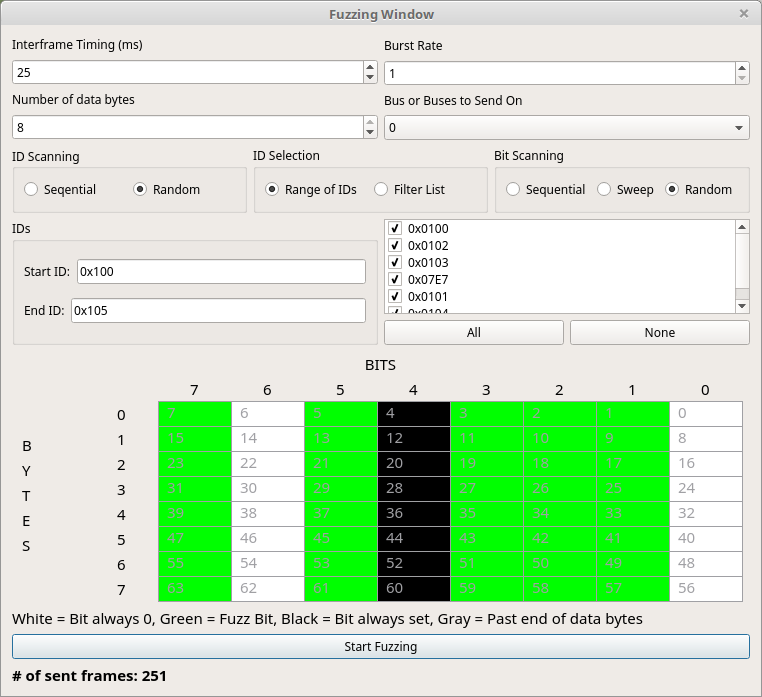
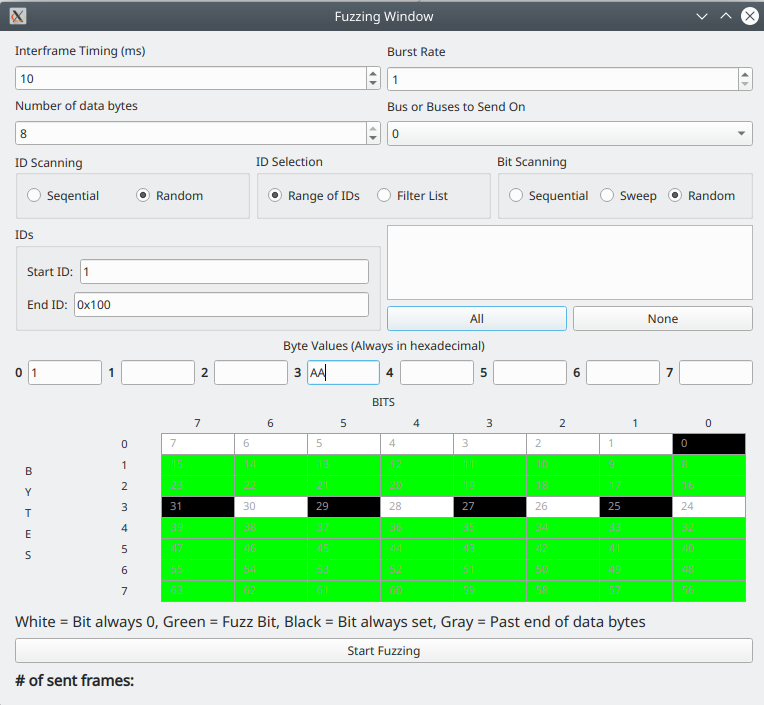
Add text boxes to Fuzzing window to make it easy to set the bytes directly and to show feedback while fuzzing is running.

diff --git a/help/fuzzingwindow.html b/help/fuzzingwindow.html
@@ -25,11 +25,12 @@
 </div>
 <div class="section" id="fuzzing-is-dangerous">
 <h1>60. Fuzzing is Dangerous</h1>
-<p>You have now been warned. Sending random garbage over the CAN bus to see what happens could mess something up. It just might put your vehicle into gear and cause you to drive over a box full of kittens. Be careful! Never fuzz a car unless you’re right there and you can stop it. Even better, don’t do it unless your car is up on a hoist or something and can’t drive over anyone. Even still, there is a small chance you could cause an adverse effect to your car.</p>
+<p>You have now been warned. Sending random garbage over the CAN bus to see what happens could mess something up. It just might put your vehicle into gear and cause you to drive over a box full of kittens. Be careful! Never fuzz a car unless you’re right there and you can stop it. Even better, don’t do it unless your car is up on a hoist or jacks and can’t drive over anyone. Even still, there is a small chance you could cause an adverse effect to your car. If you break something you own the pieces.</p>
 </div>
 <div class="section" id="controlling-the-fuzzy-beast">
 <h1>61. Controlling the Fuzzy Beast</h1>
-<p>So, you want to give it a try? Let’s do it! First of all, you can set the delay between frames and the burst rate. The burst rate can cause the program to send one than one frame each interval. This is useful as a CAN bus could potentially support 2000 to 8000 frames per second. Then you can set the number of bytes to send. Ordinarily this would be the full 8 but you can experiment with smaller frames. You can set to send on a specific bus. That’s all the simple settings. It gets a bit more complicated now.</p>
+<p>So, you want to give it a try? Let’s do it! First of all, you can set the delay between frames and the burst rate. The delay is in milliseconds but can be set as low as 0. If the delay is set to 0 then the system will attempt to send frames as fast as it can. However, even then you may not get quite as many frames per second as you’d like. Even at 0 it will still be scheduled by your operating system and so might not quite get to the speed you want. The burst rate can cause the program to send one than one frame each interval. This is useful as a CAN bus could potentially support 2000 to 8000 frames per second. If you need rapid frame sending your best bet is to set the sending interval to 1-2ms and then adjust the burst
+rate until you get your desired sending rate. Then you can set the number of bytes to send. Ordinarily this would be the full 8 but you can experiment with smaller frames. You can set to send on a specific bus. That’s all the simple settings. It gets a bit more complicated now.</p>
 <p>The “ID Scanning” box has two radio buttons:</p>
 <ol class="arabic simple">
 <li>Sequential will go from “Start ID” to “End ID” then reset back to Start over and over.</li>
@@ -46,11 +47,12 @@
 <li>Sweep causes the system to set the first one, then unset that one and set the second bit, then unset that, etc. Thus the fuzzed bit sweeps and only one fuzzed bit is set at once.</li>
 <li>Random will randomly pick whether each fuzzed bit is set or not.</li>
 </ol>
-<p>In order to fuzz bits you need to set which bits to fuzz and which not to. As listed at the bottom of the window, there is a color code to the 8x8 grid. Clicking cells in the grid will toggle them between their various values. White bits are never set, black bits are always set no matter what, green bits follow the fuzzing pattern you specified in “Bit Scanning”</p>
+<p>In order to fuzz bits you need to set which bits to fuzz and which not to. As listed at the bottom of the window, there is a color code to the 8x8 grid. Clicking cells in the grid will toggle them between their various values. White bits are never set, black bits are always set no matter what, green bits follow the fuzzing pattern you specified in “Bit Scanning” You can also set the bytes directly with the text boxes above the 8x8 grid. Setting a hexadecimal value in these
+boxes will set the relavent bits in the 8x8 grid. You must press the ENTER/RETURN key to set the values. Merely changing the value will not update it (as a safety measure).</p>
 </div>
 <div class="section" id="pulling-the-trigger">
 <h1>62. Pulling the Trigger</h1>
-<p>Once you’ve configured everything click “Start Fuzzing” to give it a shot. You will see the number of frames sent so far listed below the button. You can stop the fuzzing by pushing the button again.</p>
+<p>Once you’ve configured everything click “Start Fuzzing” to give it a shot. You will see the number of frames sent so far listed below the button. Approximately four times per second the current value for each byte is copied into the text boxes just above the 8x8 grid. This can be used to see what is going on and to ensure that it is working the way you want it to. You can stop the fuzzing by pushing the start button again.</p>
 </div>
 
 

diff --git a/help/_static/jquery.js b/help/_static/jquery.js
@@ -9,7 +9,7 @@
  * Released under the MIT license
  * https://jquery.org/license
  *
- * Date: 2019-01-30T03:06Z
+ * Date: 2019-04-19T06:52Z
  */
 ( function( global, factory ) {
 
@@ -261,8 +261,9 @@ jQuery.extend = jQuery.fn.extend = function() {
 				src = target[ name ];
 				copy = options[ name ];
 
+				// Prevent Object.prototype pollution
 				// Prevent never-ending loop
-				if ( target === copy ) {
+				if ( name === "__proto__" || target === copy ) {
 					continue;
 				}
 

diff --git a/re/fuzzingwindow.cpp b/re/fuzzingwindow.cpp
@@ -26,6 +26,15 @@ FuzzingWindow::FuzzingWindow(const QVector<CANFrame> *frames, QWidget *parent) :
     connect(ui->listID, &QListWidget::itemChanged, this, &FuzzingWindow::idListChanged);
     connect(ui->spinBytes, SIGNAL(valueChanged(int)), this, SLOT(changedNumDataBytes(int)));
     connect(ui->bitfield, SIGNAL(gridClicked(int,int)), this, SLOT(bitfieldClicked(int,int)));
+    connect(ui->txtByte0, &QLineEdit::returnPressed, this, [=](){changedDataByteText(0, ui->txtByte0->text());});
+    connect(ui->txtByte1, &QLineEdit::returnPressed, this, [=](){changedDataByteText(1, ui->txtByte1->text());});
+    connect(ui->txtByte2, &QLineEdit::returnPressed, this, [=](){changedDataByteText(2, ui->txtByte2->text());});
+    connect(ui->txtByte3, &QLineEdit::returnPressed, this, [=](){changedDataByteText(3, ui->txtByte3->text());});
+    connect(ui->txtByte4, &QLineEdit::returnPressed, this, [=](){changedDataByteText(4, ui->txtByte4->text());});
+    connect(ui->txtByte5, &QLineEdit::returnPressed, this, [=](){changedDataByteText(5, ui->txtByte5->text());});
+    connect(ui->txtByte6, &QLineEdit::returnPressed, this, [=](){changedDataByteText(6, ui->txtByte6->text());});
+    connect(ui->txtByte7, &QLineEdit::returnPressed, this, [=](){changedDataByteText(7, ui->txtByte7->text());});
+
 
     connect(MainWindow::getReference(), SIGNAL(framesUpdated(int)), this, SLOT(updatedFrames(int)));
 
@@ -110,9 +119,32 @@ void FuzzingWindow::changePlaybackSpeed(int newSpeed)
     fuzzTimer->setInterval(newSpeed);
 }
 
+void FuzzingWindow::changedDataByteText(int which, QString valu)
+{
+    int startBit = which * 8;
+    int byt = valu.toInt(nullptr, 16);
+
+    for (int i = 0; i < 8; i++)
+    {
+        bitGrid[startBit + i] = (byt & (1 << i)) ? 2 : 0;
+    }
+
+    redrawGrid();
+}
+
 void FuzzingWindow::changedNumDataBytes(int newVal)
 {
     qDebug() << "new num bytes: " << newVal;
+
+    ui->txtByte0->setEnabled((newVal > 0) ? true : false);
+    ui->txtByte1->setEnabled((newVal > 1) ? true : false);
+    ui->txtByte2->setEnabled((newVal > 2) ? true : false);
+    ui->txtByte3->setEnabled((newVal > 3) ? true : false);
+    ui->txtByte4->setEnabled((newVal > 4) ? true : false);
+    ui->txtByte5->setEnabled((newVal > 5) ? true : false);
+    ui->txtByte6->setEnabled((newVal > 6) ? true : false);
+    ui->txtByte7->setEnabled((newVal > 7) ? true : false);
+
     int byt;
     for (int i = 0; i < 64; i++)
     {
@@ -132,8 +164,21 @@ void FuzzingWindow::changedNumDataBytes(int newVal)
 
 void FuzzingWindow::timerTriggered()
 {
+    static uint64_t lastByteUpdate = 0;
     CANFrame thisFrame;
     sendingBuffer.clear();
+    //Every 250ms update the text fields to show our progress and what's going on.
+    if (QDateTime::currentMSecsSinceEpoch() - lastByteUpdate > 250)
+    {
+        ui->txtByte0->setText(QString::number(currentBytes[0], 16));
+        ui->txtByte1->setText(QString::number(currentBytes[1], 16));
+        ui->txtByte2->setText(QString::number(currentBytes[2], 16));
+        ui->txtByte3->setText(QString::number(currentBytes[3], 16));
+        ui->txtByte4->setText(QString::number(currentBytes[4], 16));
+        ui->txtByte5->setText(QString::number(currentBytes[5], 16));
+        ui->txtByte6->setText(QString::number(currentBytes[6], 16));
+        ui->txtByte7->setText(QString::number(currentBytes[7], 16));
+    }
     int buses = ui->cbBuses->currentIndex();
     for (int count = 0; count < ui->spinBurst->value(); count++)
     {

diff --git a/connections/serialbusconnection.cpp b/connections/serialbusconnection.cpp
@@ -119,8 +119,6 @@ bool SerialBusConnection::piSendFrame(const CANFrame& pFrame)
         return false;
     if (!mDev_p) return false;
 
-    qDebug() << "Data bytes at lowlevel: " << pFrame.payload().toBase64();
-
     return mDev_p->writeFrame(pFrame);
 }
 

diff --git a/re/fuzzingwindow.h b/re/fuzzingwindow.h
@@ -65,6 +65,7 @@ private:
     void calcNextBitPattern();
     void redrawGrid();
     bool eventFilter(QObject *obj, QEvent *event);
+    void changedDataByteText(int which, QString valu);
 };
 
 #endif // FUZZINGWINDOW_H

diff --git a/docs/source/fuzzingwindow.rst b/docs/source/fuzzingwindow.rst
@@ -13,12 +13,13 @@ Some people are big fans of fuzzing, some people have no use for it. There usual
 
 Fuzzing is Dangerous
 ====================
-You have now been warned. Sending random garbage over the CAN bus to see what happens could mess something up. It just might put your vehicle into gear and cause you to drive over a box full of kittens. Be careful! Never fuzz a car unless you're right there and you can stop it. Even better, don't do it unless your car is up on a hoist or something and can't drive over anyone. Even still, there is a small chance you could cause an adverse effect to your car.
+You have now been warned. Sending random garbage over the CAN bus to see what happens could mess something up. It just might put your vehicle into gear and cause you to drive over a box full of kittens. Be careful! Never fuzz a car unless you're right there and you can stop it. Even better, don't do it unless your car is up on a hoist or jacks and can't drive over anyone. Even still, there is a small chance you could cause an adverse effect to your car. If you break something you own the pieces.
 
 Controlling the Fuzzy Beast
 ===========================
 
-So, you want to give it a try? Let's do it! First of all, you can set the delay between frames and the burst rate. The burst rate can cause the program to send one than one frame each interval. This is useful as a CAN bus could potentially support 2000 to 8000 frames per second. Then you can set the number of bytes to send. Ordinarily this would be the full 8 but you can experiment with smaller frames. You can set to send on a specific bus. That's all the simple settings. It gets a bit more complicated now.
+So, you want to give it a try? Let's do it! First of all, you can set the delay between frames and the burst rate. The delay is in milliseconds but can be set as low as 0. If the delay is set to 0 then the system will attempt to send frames as fast as it can. However, even then you may not get quite as many frames per second as you'd like. Even at 0 it will still be scheduled by your operating system and so might not quite get to the speed you want. The burst rate can cause the program to send one than one frame each interval. This is useful as a CAN bus could potentially support 2000 to 8000 frames per second. If you need rapid frame sending your best bet is to set the sending interval to 1-2ms and then adjust the burst
+rate until you get your desired sending rate. Then you can set the number of bytes to send. Ordinarily this would be the full 8 but you can experiment with smaller frames. You can set to send on a specific bus. That's all the simple settings. It gets a bit more complicated now.
 
 The "ID Scanning" box has two radio buttons:
 
@@ -36,9 +37,10 @@ The last box is "Bit Scanning"
 2. Sweep causes the system to set the first one, then unset that one and set the second bit, then unset that, etc. Thus the fuzzed bit sweeps and only one fuzzed bit is set at once.
 3. Random will randomly pick whether each fuzzed bit is set or not.
 
-In order to fuzz bits you need to set which bits to fuzz and which not to. As listed at the bottom of the window, there is a color code to the 8x8 grid. Clicking cells in the grid will toggle them between their various values. White bits are never set, black bits are always set no matter what, green bits follow the fuzzing pattern you specified in "Bit Scanning"
+In order to fuzz bits you need to set which bits to fuzz and which not to. As listed at the bottom of the window, there is a color code to the 8x8 grid. Clicking cells in the grid will toggle them between their various values. White bits are never set, black bits are always set no matter what, green bits follow the fuzzing pattern you specified in "Bit Scanning" You can also set the bytes directly with the text boxes above the 8x8 grid. Setting a hexadecimal value in these
+boxes will set the relavent bits in the 8x8 grid. You must press the ENTER/RETURN key to set the values. Merely changing the value will not update it (as a safety measure).
 
 Pulling the Trigger
 ===================
 
-Once you've configured everything click "Start Fuzzing" to give it a shot. You will see the number of frames sent so far listed below the button. You can stop the fuzzing by pushing the button again.
+Once you've configured everything click "Start Fuzzing" to give it a shot. You will see the number of frames sent so far listed below the button. Approximately four times per second the current value for each byte is copied into the text boxes just above the 8x8 grid. This can be used to see what is going on and to ensure that it is working the way you want it to. You can stop the fuzzing by pushing the start button again.
